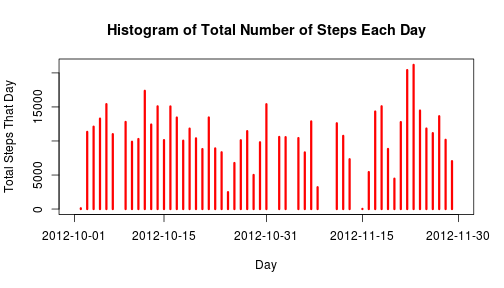
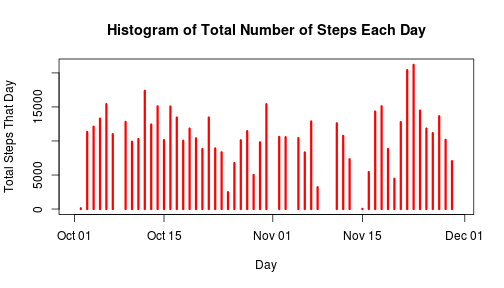
fixed the axis on the first 2 plots

diff --git a/PA1_template.html b/PA1_template.html
@@ -201,16 +201,13 @@ dat&lt;-read.csv(&quot;activity.csv&quot;)
 <h2>Histogram of the total number of steps taken each day</h2>
 
 <pre><code class="r">vSums &lt;- as.vector(tapply(dat$steps, dat$date, sum))
-nlvl &lt;- length(levels(dat$date))
+toDate &lt;- as.Date(levels(dat$date))
 par(mfrow = c(1, 1))
-plot(c(1:nlvl), vSums, type = &quot;h&quot;, lwd = 3, col = &quot;red&quot;, xaxt = &quot;n&quot;, xlab = &quot;Day&quot;, 
-    ylab = &quot;Total Steps That Day&quot;)
+plot(toDate, vSums, type = &quot;h&quot;, lwd = 3, col = &quot;red&quot;, xlab = &quot;Day&quot;, ylab = &quot;Total Steps That Day&quot;)
 title(main = &quot;Histogram of Total Number of Steps Each Day&quot;)
-vTicks &lt;- c(1, 15, 31, 46, 61)
-axis(1, vTicks, levels(dat$date)[vTicks])
 </code></pre>
 
[2 lines of base64/hex data omitted]
 
 <pre><code class="r">mean1 &lt;- as.integer(mean(vSums, na.rm = TRUE))
 median1 &lt;- as.integer(median(vSums, na.rm = TRUE))
@@ -260,13 +257,11 @@ vSums2&lt;-as.vector(tapply(dat2$steps,dat2$date,sum))
 
 <h2>Histogram of the total number of steps taken each day after missing values were imputed</h2>
 
-<pre><code class="r">plot(c(1:nlvl), vSums2, type = &quot;h&quot;, lwd = 3, col = &quot;red&quot;, xaxt = &quot;n&quot;, xlab = &quot;Day&quot;, 
-    ylab = &quot;Total Steps That Day&quot;)
+<pre><code class="r">plot(toDate, vSums2, type = &quot;h&quot;, lwd = 3, col = &quot;red&quot;, xlab = &quot;Day&quot;, ylab = &quot;Total Steps That Day&quot;)
 title(main = &quot;Histogram of Total Number of Steps Each Day with \nNAs replaced by the mean at each day&quot;)
-axis(1, vTicks, levels(dat2$date)[vTicks])
 </code></pre>
 
[2 lines of base64/hex data omitted]
 
 <pre><code class="r">mean2&lt;-as.integer(mean(vSums2))
 median2&lt;-as.integer(median(vSums2))

diff --git a/PA1_template.md b/PA1_template.md
@@ -12,13 +12,10 @@ dat<-read.csv("activity.csv")
 
 ```r
 vSums <- as.vector(tapply(dat$steps, dat$date, sum))
-nlvl <- length(levels(dat$date))
+toDate <- as.Date(levels(dat$date))
 par(mfrow = c(1, 1))
-plot(c(1:nlvl), vSums, type = "h", lwd = 3, col = "red", xaxt = "n", xlab = "Day", 
-    ylab = "Total Steps That Day")
+plot(toDate, vSums, type = "h", lwd = 3, col = "red", xlab = "Day", ylab = "Total Steps That Day")
 title(main = "Histogram of Total Number of Steps Each Day")
-vTicks <- c(1, 15, 31, 46, 61)
-axis(1, vTicks, levels(dat$date)[vTicks])
 ```
 
 ![plot of chunk totalsteps](figure/totalsteps.png) 
@@ -78,10 +75,8 @@ The number of NAs in the original data set is 2304
 
 
 ```r
-plot(c(1:nlvl), vSums2, type = "h", lwd = 3, col = "red", xaxt = "n", xlab = "Day", 
-    ylab = "Total Steps That Day")
+plot(toDate, vSums2, type = "h", lwd = 3, col = "red", xlab = "Day", ylab = "Total Steps That Day")
 title(main = "Histogram of Total Number of Steps Each Day with \nNAs replaced by the mean at each day")
-axis(1, vTicks, levels(dat2$date)[vTicks])
 ```
 
 ![plot of chunk totalstepsafterreplace](figure/totalstepsafterreplace.png) 
